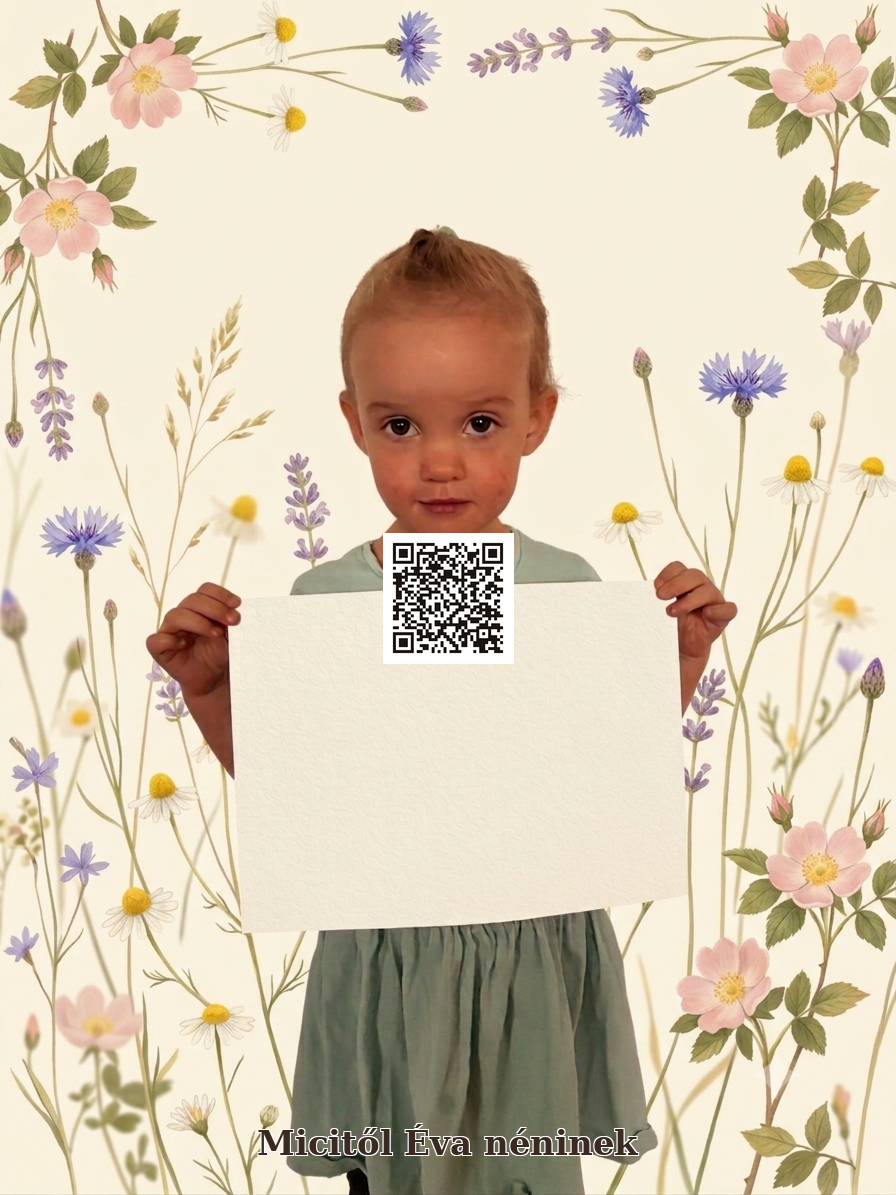
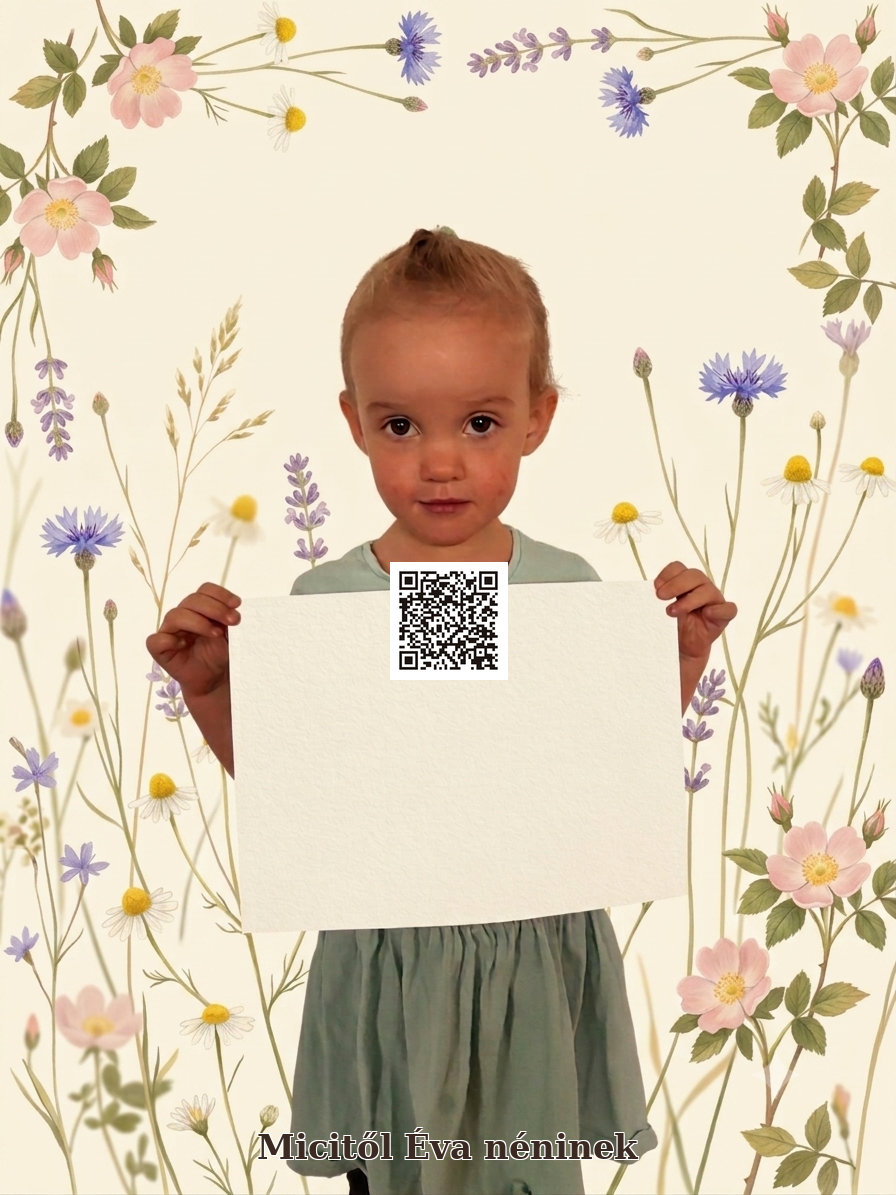
Center QR codes on paper using explicit placement box
- Position QR on the white paper sheet instead of the image center
- Increase QR size to 120px to match the marked target area

Changed region(s): [[0.4062, 0.4335, 0.5938, 0.5883], [0.2812, 0.9289, 0.7188, 0.9908]]

diff --git a/scripts/generate-greeting-cards.py b/scripts/generate-greeting-cards.py
@@ -5,7 +5,6 @@ from __future__ import annotations
 
 import json
 import unicodedata
-from io import BytesIO
 from pathlib import Path
 from urllib.parse import quote, urlencode, urlsplit, urlunsplit
 
@@ -19,9 +18,8 @@ TEMPLATE_PATH = ROOT / "source" / "img" / "greeting-template.png"
 OUTPUT_DIR = ROOT / "qrcodes" / "cards"
 FONT_PATH = Path("/usr/share/fonts/truetype/dejavu/DejaVuSerif-Bold.ttf")
 
-# White paper area on the template (px): left, top, right, bottom
-PAPER_BOX = (176, 562, 720, 658)
-PAPER_PADDING = 0.05
+# Target QR placement on the white paper (px): left, top, right, bottom
+QR_BOX = (388, 551, 508, 671)
 TEXT_BOTTOM_OFFSET = 68
 
 TRACKS = [
@@ -67,29 +65,17 @@ def make_qr_image(url: str, size: int) -> Image.Image:
     return image.resize((size, size), Image.Resampling.LANCZOS)
 
 
-def paper_inner_box(paper_box: tuple[int, int, int, int]) -> tuple[int, int, int, int]:
-    left, top, right, bottom = paper_box
-    width = right - left
-    height = bottom - top
-    pad_x = int(width * PAPER_PADDING)
-    pad_y = int(height * PAPER_PADDING)
-    return left + pad_x, top + pad_y, right - pad_x, bottom - pad_y
-
-
 def compose_card(template: Image.Image, track_name: str, recipient: str, url: str) -> Image.Image:
     card = template.copy()
     draw = ImageDraw.Draw(card)
 
-    inner = paper_inner_box(PAPER_BOX)
-    inner_width = inner[2] - inner[0]
-    inner_height = inner[3] - inner[1]
-    qr_size = min(inner_width, inner_height)
+    left, top, right, bottom = QR_BOX
+    qr_size = min(right - left, bottom - top)
     qr = make_qr_image(url, qr_size)
 
-    qr_x = inner[0] + (inner_width - qr_size) // 2
-    qr_y = inner[1] + (inner_height - qr_size) // 2
+    qr_x = left + (right - left - qr_size) // 2
+    qr_y = top + (bottom - top - qr_size) // 2
 
-    # Subtle white backing for reliable scanning on textured paper.
     margin = max(4, qr_size // 40)
     draw.rectangle(
         (qr_x - margin, qr_y - margin, qr_x + qr_size + margin, qr_y + qr_size + margin),
